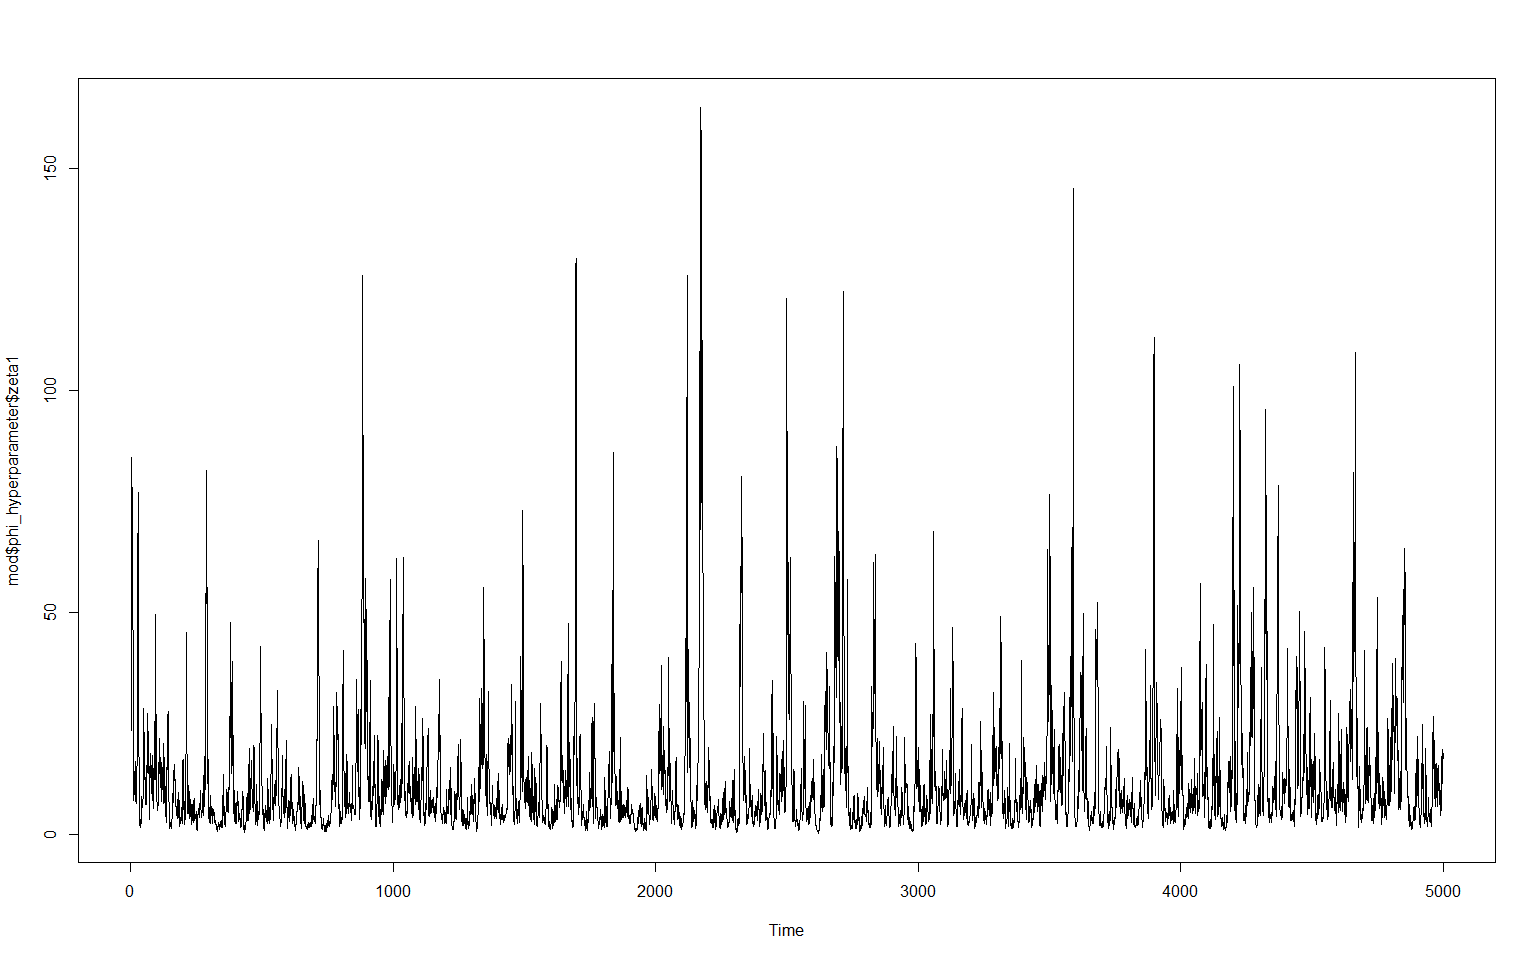
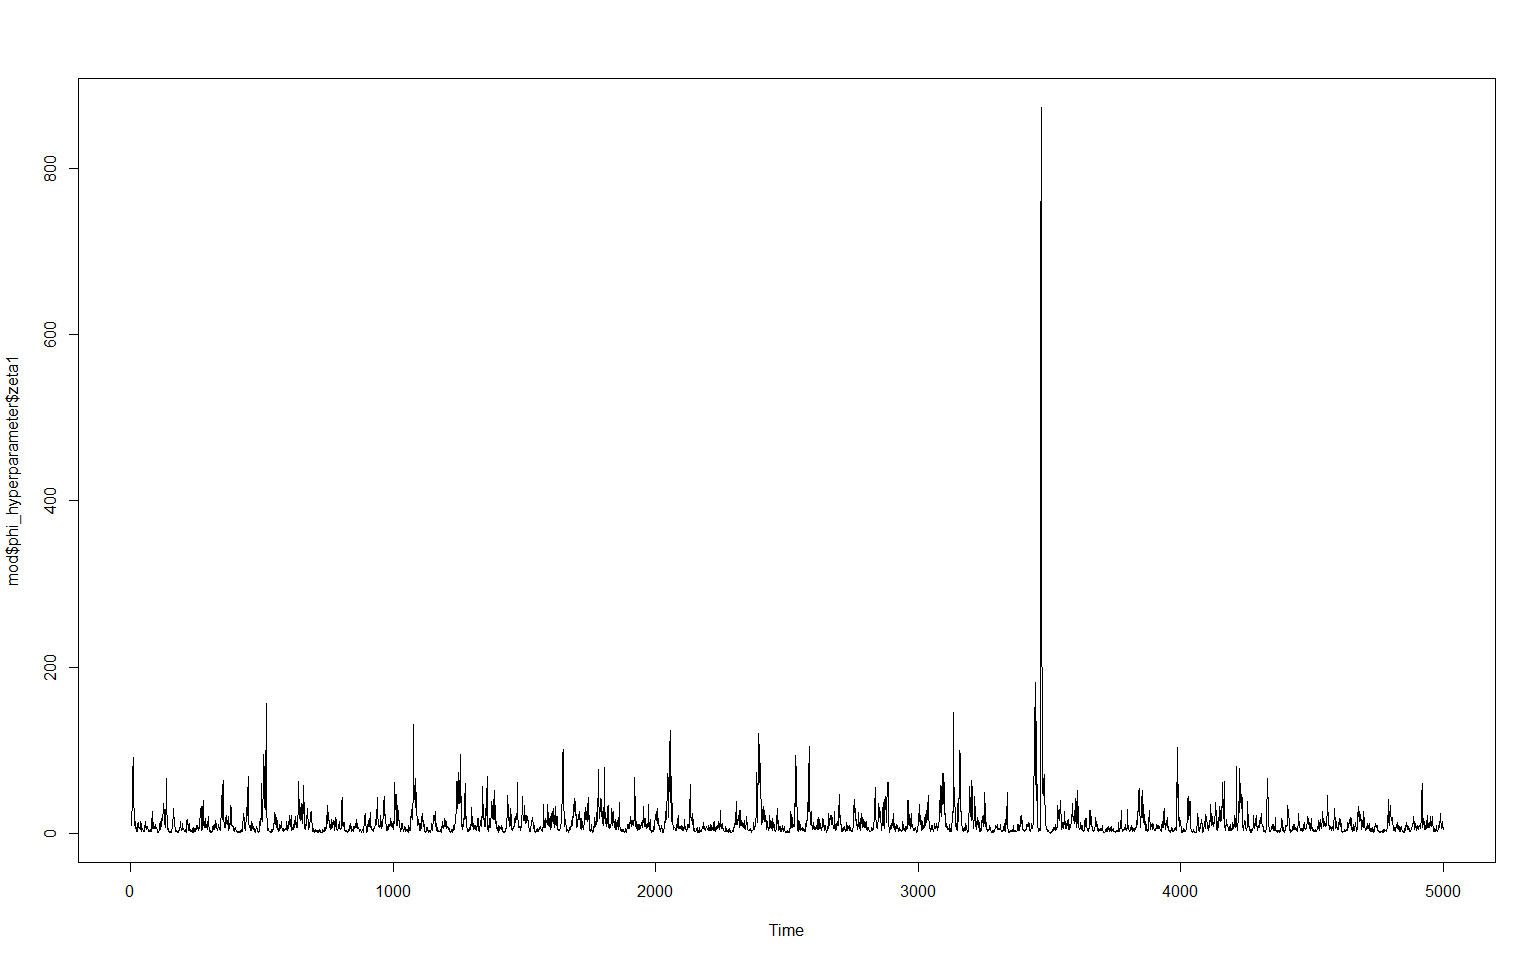
github demo

Changed region(s): [[0.0625, 0.5625, 0.9375, 0.875], [0.4375, 0.375, 0.4688, 0.5312]]

diff --git a/README.md b/README.md
@@ -30,6 +30,7 @@ data <- dat_growth[,c("GDPC1", "CPIAUCSL", "FEDFUNDS")]
 Y_est <- data[1:100,]
 
 # Specify prior for reduced-form VAR coefficients (with default settings)
+prior <- "R2D2" # or "DL", "SSVS", "HMP", "normal"
 priorPHI <- specify_priorPHI(prior = "R2D2")
 
 # Specify prior for L (Decomposition of variance-covariance matrix in the form of t(L^(-1))%*%D_t%*%L^(-1), where L is upper triangular)
@@ -46,23 +47,23 @@ summary(mod)
     ## 
     ## Posterior median of PHI:
     ##                  GDPC1   CPIAUCSL   FEDFUNDS
-    ## GDPC1.l1     1.638e-11  8.360e-18  6.678e-09
-    ## CPIAUCSL.l1 -1.109e-10  6.907e-01  1.478e-07
-    ## FEDFUNDS.l1 -2.713e-16  4.066e-02  1.287e+00
-    ## GDPC1.l2     4.869e-16 -1.247e-13  4.574e-13
-    ## CPIAUCSL.l2 -5.187e-24  7.750e-02  3.442e-12
-    ## FEDFUNDS.l2 -1.011e-01 -1.954e-05 -3.341e-01
-    ## intercept    1.651e-02  7.356e-04  1.500e-03
+    ## GDPC1.l1     4.705e-21  2.092e-12  5.331e-11
+    ## CPIAUCSL.l1 -3.209e-07  7.077e-01  1.142e-01
+    ## FEDFUNDS.l1 -1.659e-06  2.936e-02  1.270e+00
+    ## GDPC1.l2     1.105e-11 -6.636e-22  2.031e-13
+    ## CPIAUCSL.l2 -1.006e-08  9.085e-02  5.309e-11
+    ## FEDFUNDS.l2 -2.987e-02 -6.341e-07 -3.263e-01
+    ## intercept    1.611e-02  8.160e-04  1.675e-03
     ## 
     ## Posterior interquartile range of PHI:
     ##                 GDPC1  CPIAUCSL  FEDFUNDS
-    ## GDPC1.l1    4.550e-04 3.274e-04 3.012e-02
-    ## CPIAUCSL.l1 2.778e-03 2.501e-01 2.314e-01
-    ## FEDFUNDS.l1 2.536e-03 1.228e-01 1.754e-01
-    ## GDPC1.l2    6.069e-05 7.844e-06 7.049e-05
-    ## CPIAUCSL.l2 2.126e-07 2.925e-01 1.311e-03
-    ## FEDFUNDS.l2 1.155e-01 9.568e-02 1.730e-01
-    ## intercept   3.159e-03 1.319e-03 2.088e-03
+    ## GDPC1.l1    7.218e-05 5.237e-04 0.0179714
+    ## CPIAUCSL.l1 2.067e-01 2.431e-01 0.3371642
+    ## FEDFUNDS.l1 2.860e-02 1.103e-01 0.1907421
+    ## GDPC1.l2    3.455e-04 3.063e-05 0.0005711
+    ## CPIAUCSL.l2 2.947e-02 2.785e-01 0.0011570
+    ## FEDFUNDS.l2 1.118e-01 8.357e-02 0.1812153
+    ## intercept   3.283e-03 1.242e-03 0.0021808
 
 ``` r
 # Traceplot of global shrinkage parameter
@@ -96,37 +97,37 @@ summary(pred)
     ## 
     ## LPL:
     ##   t+1   t+2   t+3   t+4 
-    ## 9.205 9.187 9.279 8.829 
+    ## 9.437 9.385 9.428 9.110 
     ## 
     ## Marginal joint LPL of CPIAUCSL & FEDFUNDS:
     ##   t+1   t+2   t+3   t+4 
-    ## 5.637 5.726 5.702 5.668 
+    ## 5.833 5.856 5.816 5.812 
     ## 
     ## Marginal univariate LPLs:
     ##     GDPC1 CPIAUCSL FEDFUNDS
-    ## t+1 3.613    4.316    1.260
-    ## t+2 3.496    4.095    1.507
-    ## t+3 3.534    3.895    1.635
-    ## t+4 3.036    3.535    1.835
+    ## t+1 3.647    4.344    1.457
+    ## t+2 3.570    4.119    1.683
+    ## t+3 3.588    3.936    1.778
+    ## t+4 3.181    3.580    1.952
     ## 
     ## Prediction quantiles:
     ## , , GDPC1
     ## 
-    ##           t+1       t+2       t+3       t+4
-    ## 5%  -0.011935 -0.013955 -0.014017 -0.014216
-    ## 50%  0.005112  0.004069  0.003913  0.004034
-    ## 95%  0.022006  0.021375  0.021346  0.022128
+    ##           t+1      t+2       t+3       t+4
+    ## 5%  -0.011507 -0.01241 -0.012545 -0.012727
+    ## 50%  0.006661  0.00553  0.005558  0.005395
+    ## 95%  0.023956  0.02330  0.023269  0.023926
     ## 
     ## , , CPIAUCSL
     ## 
-    ##          t+1       t+2        t+3      t+4
-    ## 5%  0.002013 0.0004063 -0.0009667 -0.00150
-    ## 50% 0.010601 0.0115145  0.0122505  0.01274
-    ## 95% 0.019727 0.0232591  0.0261385  0.02839
+    ##          t+1       t+2       t+3       t+4
+    ## 5%  0.001736 0.0004717 -0.001208 -0.002108
+    ## 50% 0.010499 0.0111807  0.011831  0.012239
+    ## 95% 0.019816 0.0229956  0.025614  0.027502
     ## 
     ## , , FEDFUNDS
     ## 
-    ##         t+1     t+2     t+3     t+4
-    ## 5%  0.09688 0.08249 0.06949 0.05796
-    ## 50% 0.11483 0.11369 0.11152 0.10963
-    ## 95% 0.12995 0.13943 0.14718 0.15575
+    ##         t+1    t+2    t+3     t+4
+    ## 5%  0.09502 0.0777 0.0622 0.04942
+    ## 50% 0.11431 0.1125 0.1102 0.10784
+    ## 95% 0.13000 0.1398 0.1482 0.15611
